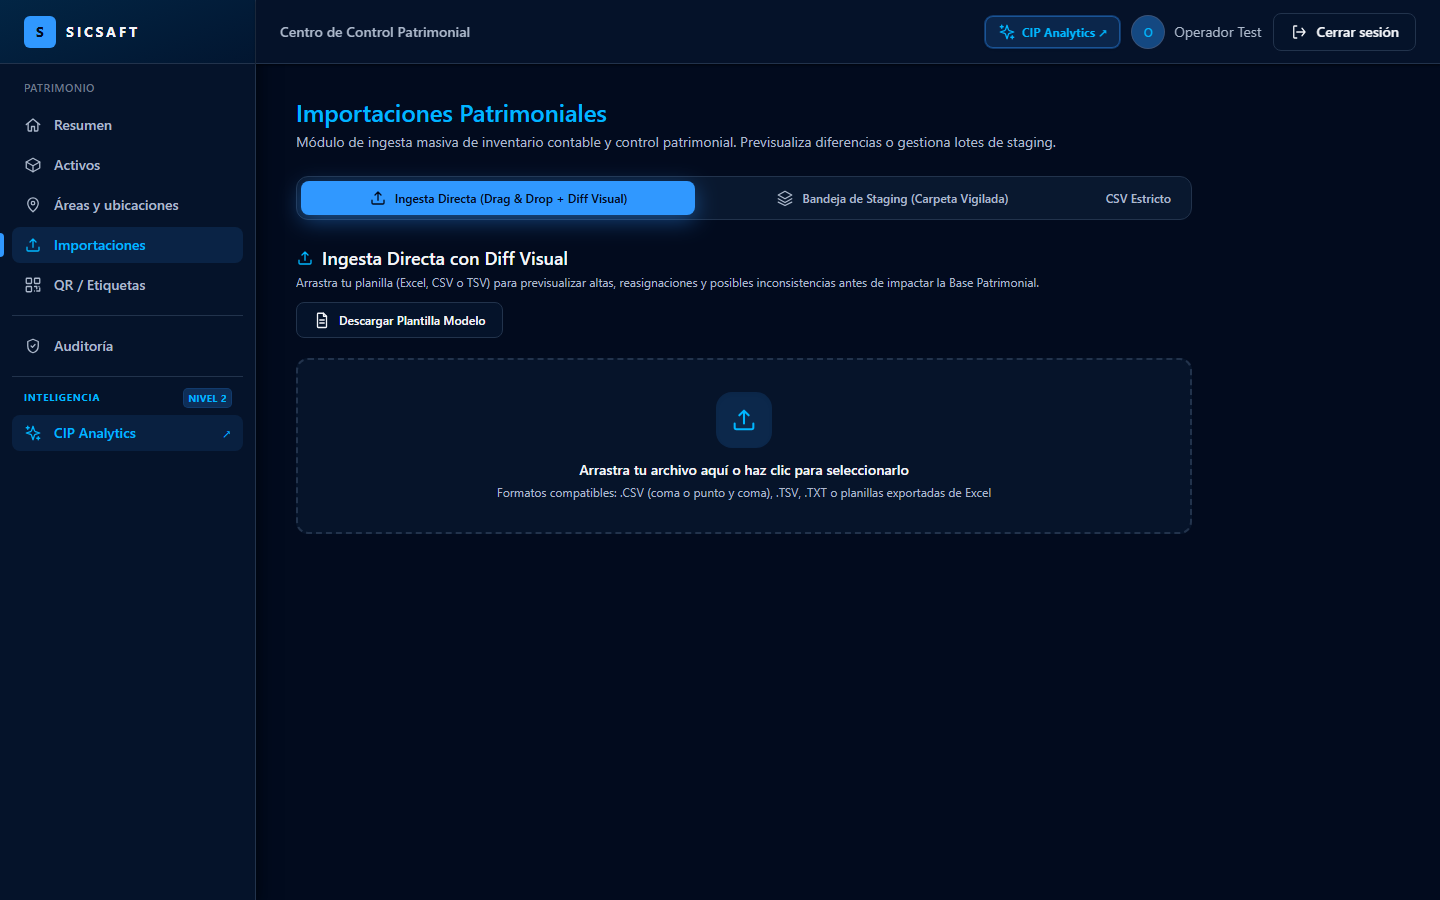
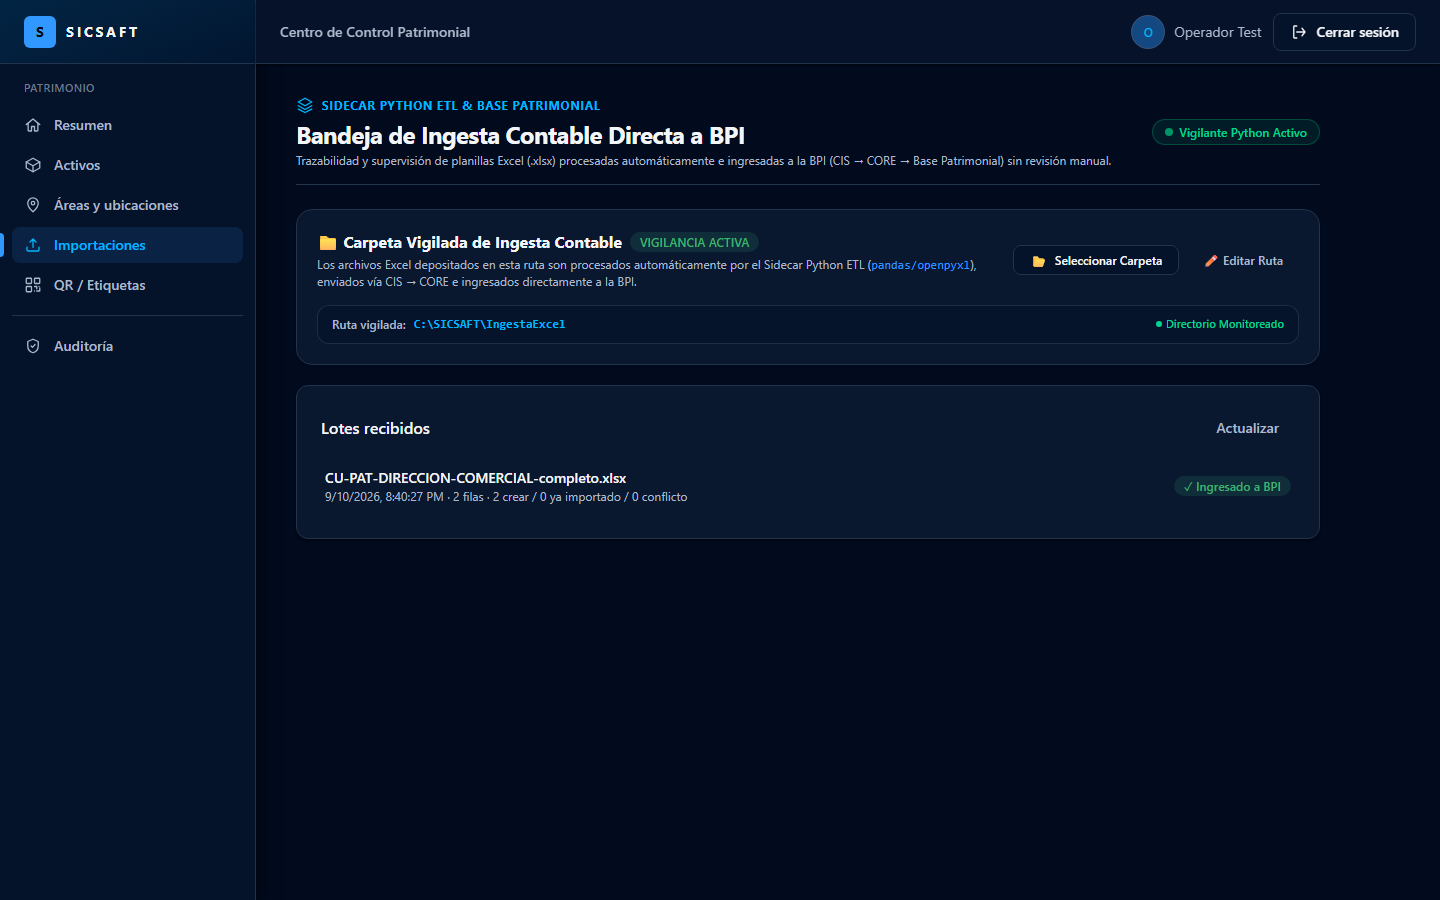
test(ccp): repunta la galería de /importaciones a la bandeja real
Los casos 16/17 esperaban `Ingesta Directa con Diff Visual`, el <h2> de
DropzoneImportacionExcel — un componente que ImportacionesPage ya no monta
(desde DOC-029 RF-B.6 la página solo renderiza LotesRevision). En main el
fallo quedaba tapado porque CCP CI moría antes, en lint; acá el lint pasa y
el e2e llega a correr. Se apuntan a lo que la ruta muestra hoy: el <h1> de
la bandeja y la lista "Lotes recibidos". Screenshots regenerados.

diff --git a/ccp/tests/galeria-completa.spec.js b/ccp/tests/galeria-completa.spec.js
@@ -280,13 +280,16 @@ test('15 - Mejora 2: Etiquetas Masivas - Simulación de Hoja de Papel Troquelada
 });
 
 // ==========================================
-// 6. MEJORA 6: INGESTA EXCEL CON DIFF VISUAL
+// 6. INGESTA CONTABLE: BANDEJA Y REVISIÓN DE LOTES
 // ==========================================
 
-test('16 - Mejora 6: Ingesta Excel - Zona Drag & Drop', async ({ page }) => {
+test('16 - Ingesta contable: bandeja directa a BPI', async ({ page }) => {
   await seedAuth(page);
   await page.goto('/importaciones?organizacionId=duoc-uc');
-  await page.waitForSelector('text=Ingesta Directa con Diff Visual');
+  await page.waitForSelector(
+    'h1:has-text("Bandeja de Ingesta Contable Directa a BPI")',
+  );
+  await page.waitForSelector('text=Carpeta Vigilada de Ingesta Contable');
   await page.waitForTimeout(500);
   await page.screenshot({
     path: `${OUT}/16-ccp-importaciones-dropzone.png`,
@@ -294,30 +297,15 @@ test('16 - Mejora 6: Ingesta Excel - Zona Drag & Drop', async ({ page }) => {
   });
 });
 
-test('17 - Mejora 6: Ingesta Excel - Diff Visual Interactivo con Diagnóstico', async ({
+test('17 - Ingesta contable: lotes recibidos y su detalle', async ({
   page,
 }) => {
   await seedAuth(page);
   await page.goto('/importaciones?organizacionId=duoc-uc');
-  await page.waitForSelector('text=Ingesta Directa con Diff Visual');
-
-  // Cargar una planilla de prueba simulada directamente por el input file
-  const csvPrueba = [
-    'codigoPatrimonial,codigoQr,catalogoId,serie,areaId,ubicacionId,valorPatrimonial',
-    'NOTE-NUEVO-01,QR-NOTE-NUEVO-01,catalogo-notebook,SN-N1,area-informatica,ubi-1,950000',
-    'NOTE-NUEVO-02,QR-NOTE-NUEVO-02,catalogo-notebook,SN-N2,area-informatica,ubi-1,950000',
-    'activo-notebook-001,QR-NOTEBOOK-001,catalogo-notebook,SN-EX1,area-biblioteca,ubi-bib-1,800000',
-    'activo-proyector-002,QR-PROYECTOR-002,catalogo-notebook,SN-EX2,area-informatica,ubicacion-lab-1,450000',
-    'CONFLICTO-01,QR-ESCANER-003,catalogo-notebook,SN-C1,area-informatica,ubi-1,300000',
-  ].join('\n');
-
-  await page.setInputFiles('input[type="file"]', {
-    name: 'inventario-activos-2026.csv',
-    mimeType: 'text/csv',
-    buffer: Buffer.from(csvPrueba),
-  });
-
-  await page.waitForSelector('text=Total Filas');
+  await page.waitForSelector(
+    'h1:has-text("Bandeja de Ingesta Contable Directa a BPI")',
+  );
+  await page.waitForSelector('text=Lotes recibidos');
   await page.waitForTimeout(600);
   await page.screenshot({
     path: `${OUT}/17-ccp-importaciones-diff-visual.png`,
